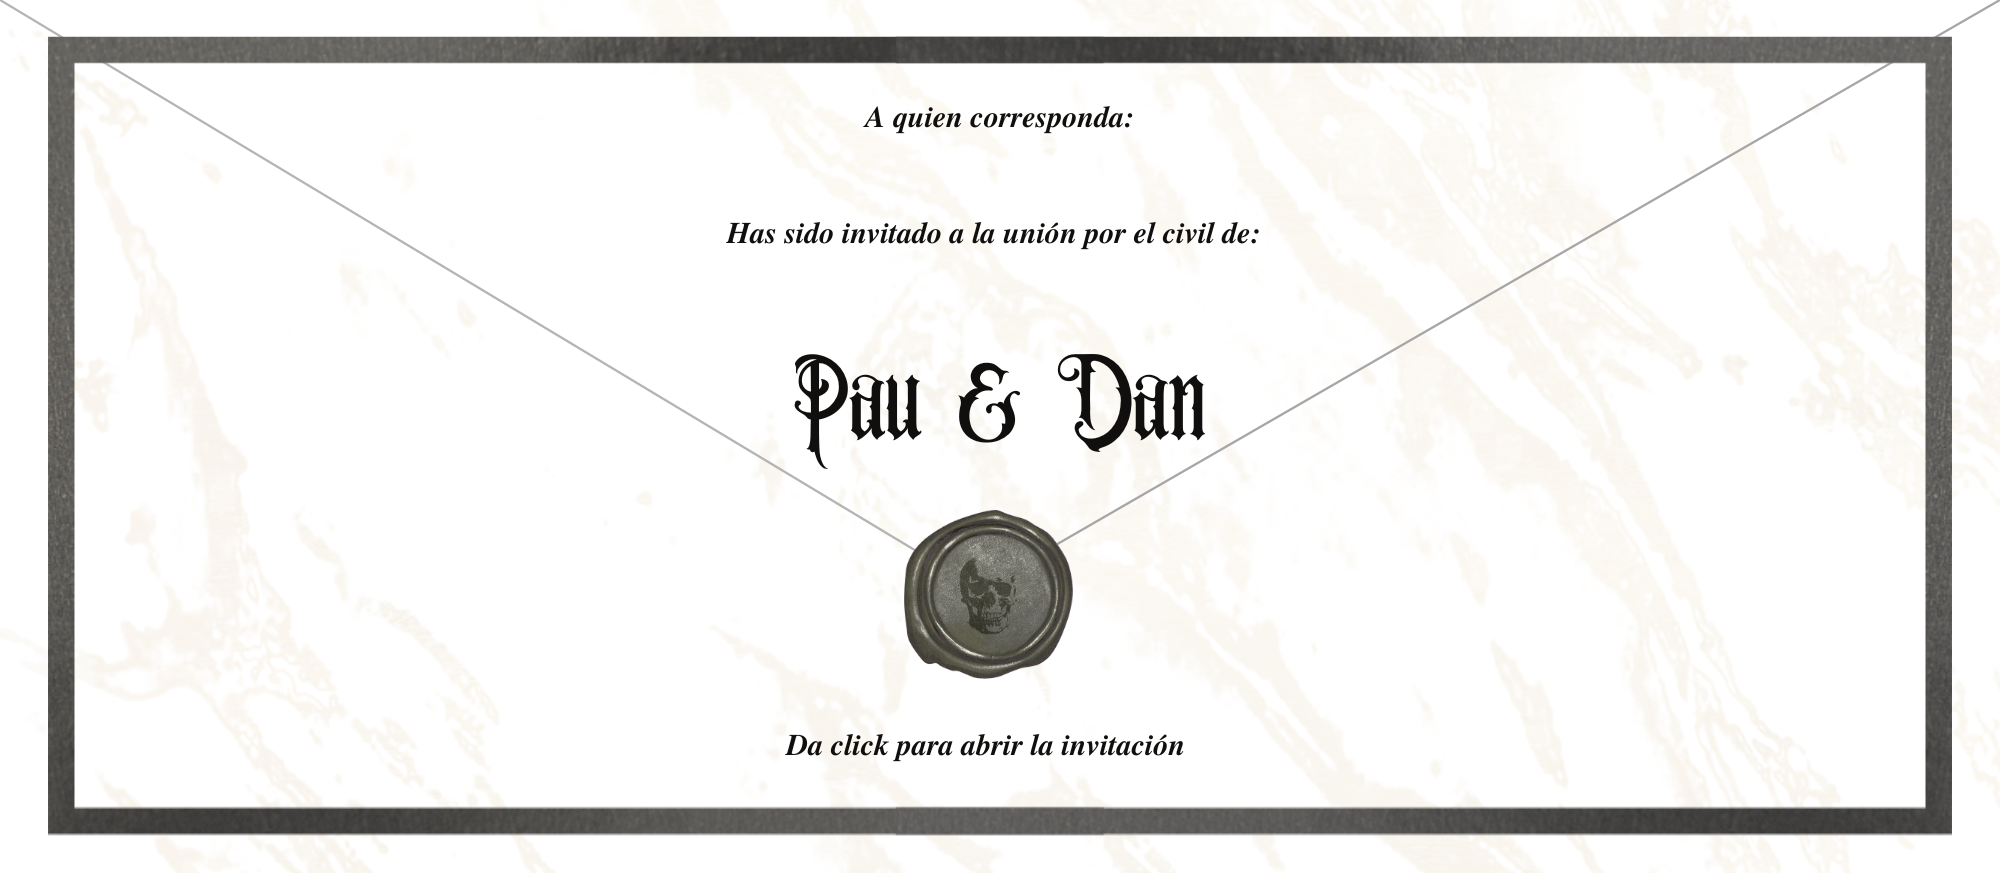
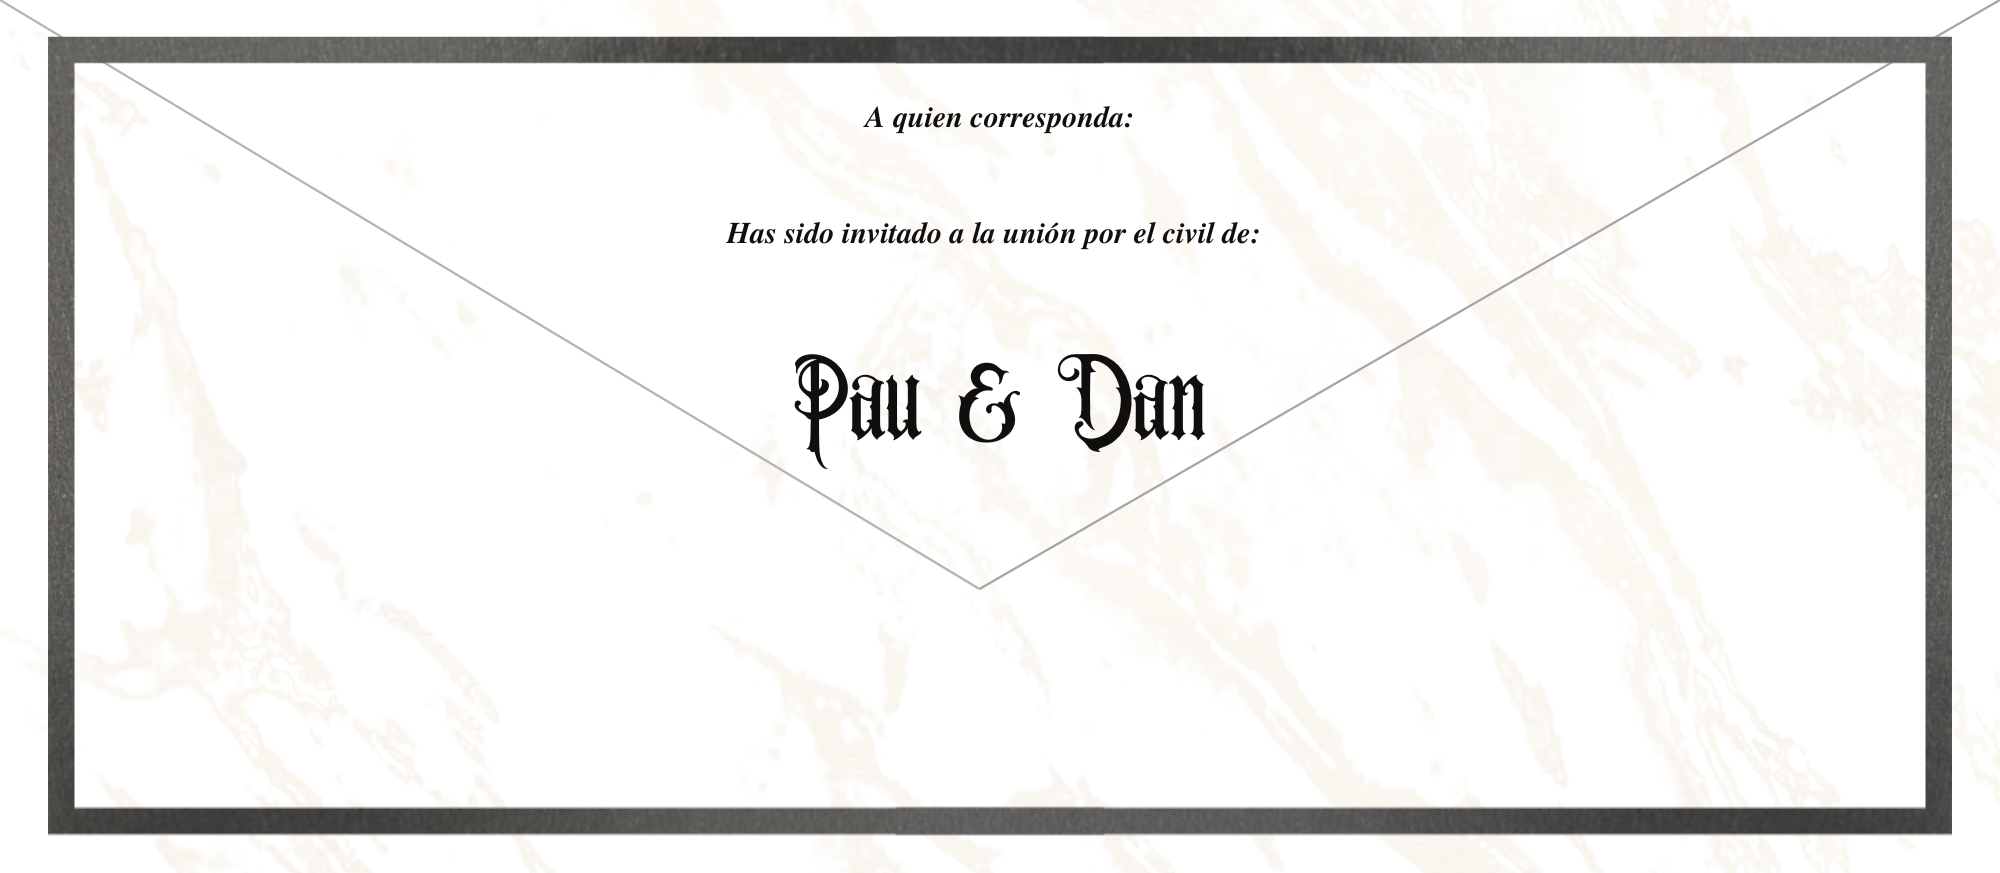
sobre fix

Changed region(s): [[0.434, 0.5876, 0.558, 0.7732], [0.372, 0.8351, 0.589, 0.866]]

diff --git a/style.css b/style.css
@@ -567,7 +567,8 @@ main {
 
 .sobre {
     position: relative;
-    width: min(85vw, 450px);
+    width: 100vw;
+    max-width: none;
     display: flex;
     justify-content: center;
     align-items: center;
@@ -579,14 +580,13 @@ main {
     display: block;
     user-select: none;
     pointer-events: none;
-    box-shadow: 0 20px 60px rgba(0, 0, 0, 0.5);
 }
 
 .abrir-invitacion {
     position: absolute;
+    top: 50%;
     left: 50%;
-    bottom: 12%;
-    transform: translateX(-50%);
+    transform: translate(-50%, -50%);
     padding: 10px 26px;
     background: #111;
     color: #f5f0e8;
@@ -605,8 +605,10 @@ main {
 .abrir-invitacion:hover {
     background: #f5f0e8;
     color: #111;
-    transform: translateX(-50%) scale(1.05);
+    transform: translate(-50%, -50%) scale(1.05);
 }
+
+
 
 /*vistas*/
 .vista-oculta {
